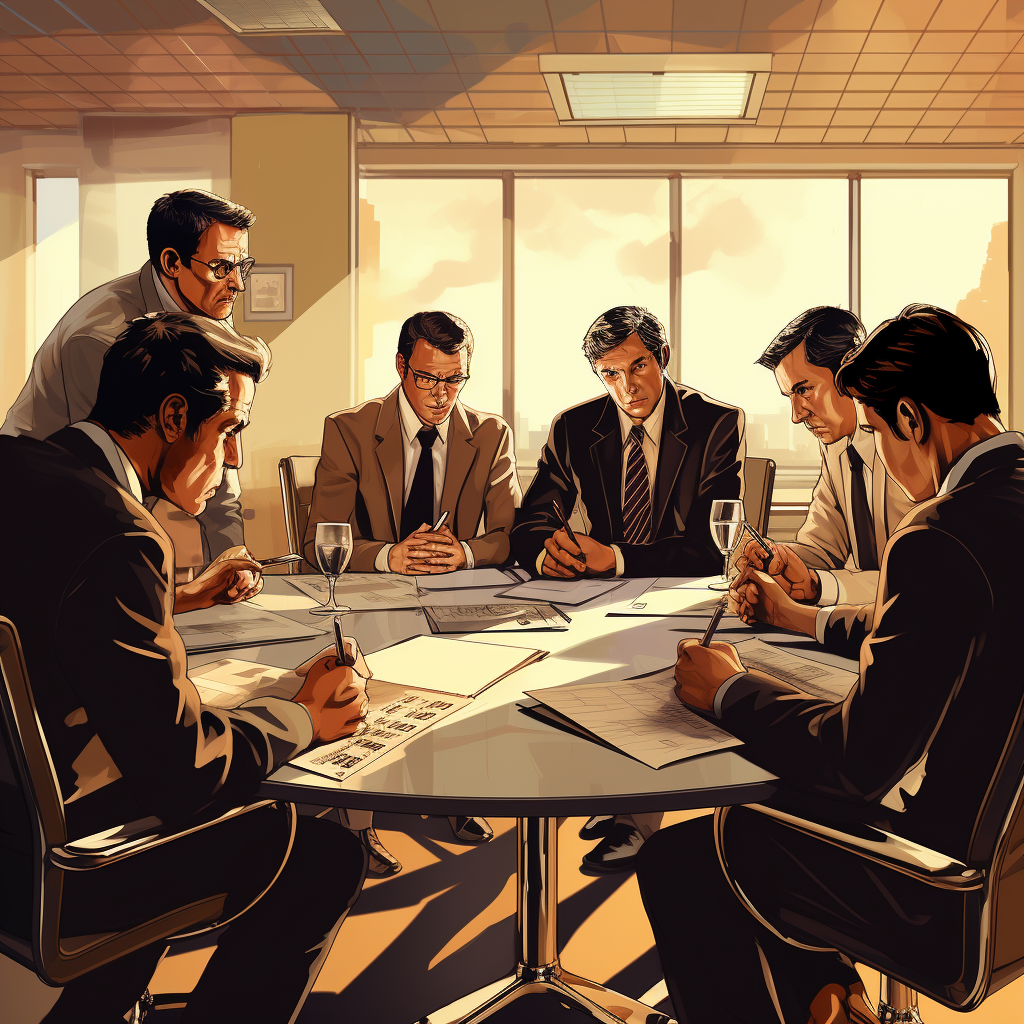
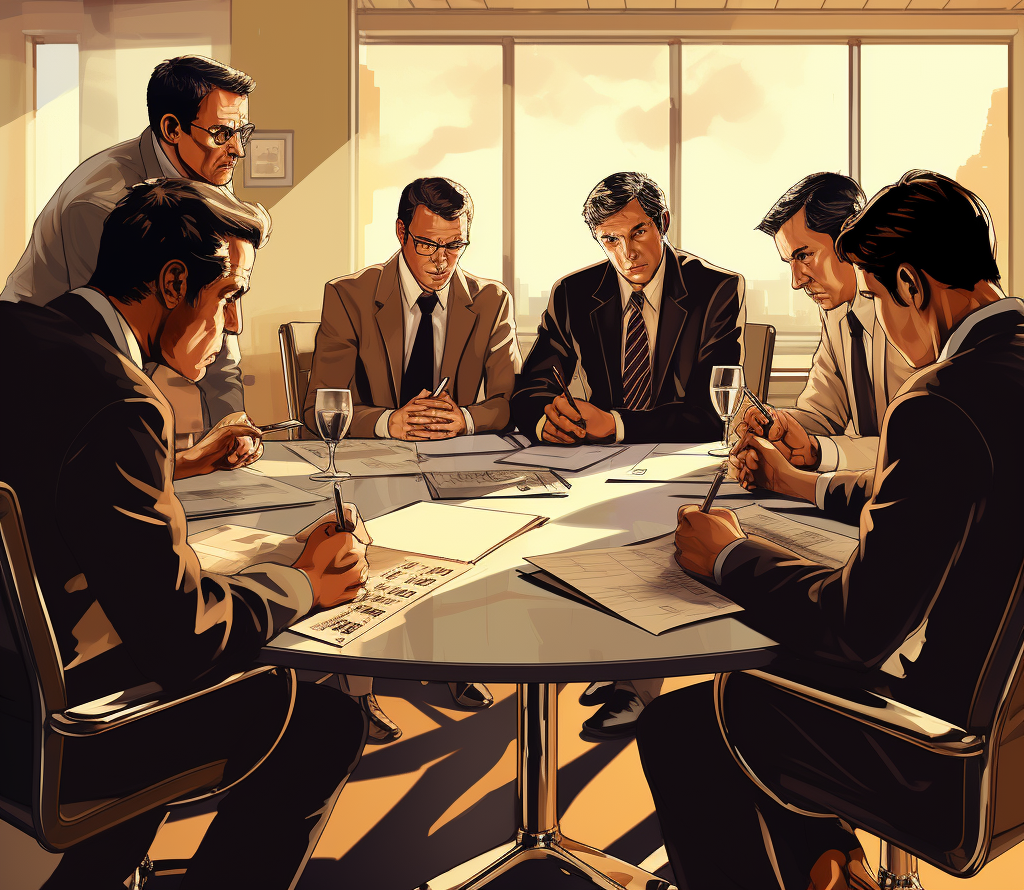
update

diff --git a/Frontend/disastermanagement/src/Components/Day5/Morning5.jsx b/Frontend/disastermanagement/src/Components/Day5/Morning5.jsx
@@ -28,7 +28,7 @@ import recovery from "../userImages/recovery.png";
 import clock from "../userImages/clock.png";
 import clapping from "../userImages/clapping.png";
 import email from "../userImages/email.jpeg";
-import liam from "../userImages/liam.jpeg"
+import liam from "../userImages/liam.jpeg";
 
 
 import MyContext from "../ContextApi/MyContext";
@@ -288,7 +288,7 @@ const Morning5 = () => {
       }
     };
 
-    const messageInterval = setInterval(displayNextMessage, 4000);
+    const messageInterval = setInterval(displayNextMessage, 2000);
 
     return () => {
       clearInterval(messageInterval);
@@ -426,19 +426,6 @@ const Morning5 = () => {
                 declaring that the crisis was over, and a collective sigh of
                 relief echoed throughout the office.{" "}
               </Text>
-            </Box>
-           
-            <br />
-
-            <Box
-              w={"90%"}
-              m={"auto"}
-              border={"1px solid gray"}
-              bg={"gray.200"}
-              color={"black"}
-            >
-              The office is buzzing with activity. Phones are ringing, and IT
-              professionals are working at their stations.
             </Box>
             <Box
               w={"90%"}

diff --git a/Frontend/disastermanagement/src/Components/Day2/EarlyMorning.jsx b/Frontend/disastermanagement/src/Components/Day2/EarlyMorning.jsx
@@ -32,8 +32,7 @@ import ScrollDown from "../ScrollDown";
 import oncall from "../userImages/oncall.png";
 import withtom from "../userImages/withtom.png";
 import warroom from "../userImages/warroom.png";
-
-
+import liam from "../userImages/liam.jpeg";
 import MyContext from "../ContextApi/MyContext";
 
 
@@ -339,7 +338,7 @@ const EarlyMorning = () => {
       }
     };
 
-    const messageInterval = setInterval(displayNextMessage, 4000);
+    const messageInterval = setInterval(displayNextMessage, 2000);
 
     return () => {
       clearInterval(messageInterval);
@@ -418,7 +417,7 @@ const EarlyMorning = () => {
               bgImage={
                 currentMessageIndex > 30 ? loss :
                 currentMessageIndex > 25 ? warroom :
-                currentMessageIndex > 43 ? withtom :
+                currentMessageIndex > 13 ? withtom :
                 currentMessageIndex > 7 ? oncall :
                 day2morning
               }

diff --git a/Frontend/disastermanagement/src/Pages/Chat.jsx b/Frontend/disastermanagement/src/Pages/Chat.jsx
@@ -193,7 +193,7 @@ const Chat = () => {
     // Simulate messages from 5 users with a 2-second delay between each message
     setHead("Day 1 Morning")
 
-    const messageDelay = 500; // 4 seconds
+    const messageDelay = 2000; // 4 seconds
 
     let timeoutIndex = 0;
 
@@ -235,11 +235,11 @@ const Chat = () => {
     <>
       {modalValue ===
       "Emphasizing teamwork, both internally and with external partners" ? (
-        <Morning5 />
+        <BringDown />
       ) : modalValue === "Making clear and swift decisions under pressure" ? (
-        <Morning5 />
+        <BringDown />
       ) : modalValue === "Remaining calm and level-headed during challenges" ? (
-        <Morning5 />
+        <BringDown />
       ) : modalValue ===
         "Effectively conveying information, even in challenging circumstances" ? (
 

diff --git a/Frontend/disastermanagement/src/Components/Day1/Day1Evening.jsx b/Frontend/disastermanagement/src/Components/Day1/Day1Evening.jsx
@@ -205,7 +205,7 @@ const BringDown = () => {
     // Simulate messages from 5 users with a 2-second delay between each message
     setHead("Day 1 Evening")
 
-    const messageDelay = 4000; // 4 seconds
+    const messageDelay = 2000; // 4 seconds
 
     let timeoutIndex = 0;
 

diff --git a/Frontend/disastermanagement/src/Components/Day4/EarlyMorning4.jsx b/Frontend/disastermanagement/src/Components/Day4/EarlyMorning4.jsx
@@ -283,7 +283,7 @@ const EarlyMorning4 = () => {
       }
     };
 
-    const messageInterval = setInterval(displayNextMessage, 4000);
+    const messageInterval = setInterval(displayNextMessage, 2000);
 
     return () => {
       clearInterval(messageInterval);

diff --git a/Frontend/disastermanagement/src/Components/Day2/LateMoring.jsx b/Frontend/disastermanagement/src/Components/Day2/LateMoring.jsx
@@ -289,7 +289,7 @@ const LateMorning = () => {
       }
     };
 
-    const messageInterval = setInterval(displayNextMessage, 4000);
+    const messageInterval = setInterval(displayNextMessage, 2000);
 
     return () => {
       clearInterval(messageInterval);

diff --git a/Frontend/disastermanagement/src/Components/Day3/Morning.jsx b/Frontend/disastermanagement/src/Components/Day3/Morning.jsx
@@ -285,7 +285,7 @@ const Morning = () => {
       }
     };
 
-    const messageInterval = setInterval(displayNextMessage, 4000);
+    const messageInterval = setInterval(displayNextMessage, 2000);
 
     return () => {
       clearInterval(messageInterval);
